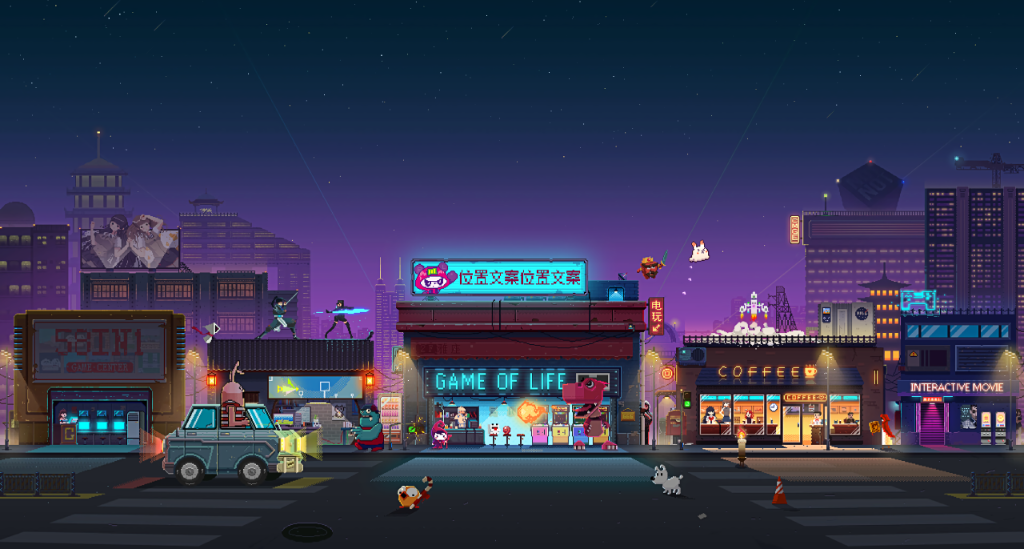
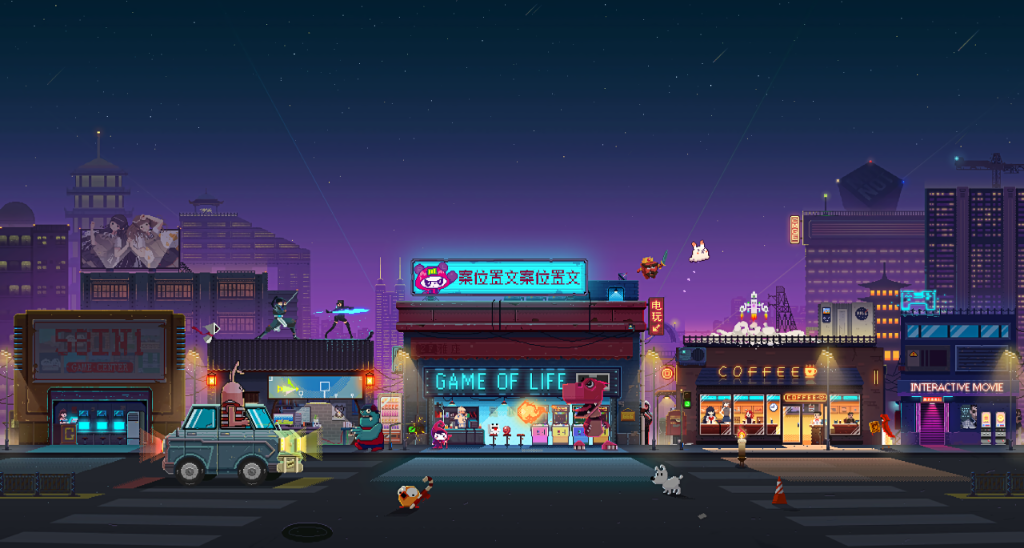
feat(ui): apply user-provided pixel city background with subtle blur and dimming

diff --git a/static/index.html b/static/index.html
@@ -381,11 +381,14 @@
   </style>
 </head>
 <body class="min-h-screen selection:bg-[#00F0FF] selection:text-black flex flex-col relative">
-  <!-- PIXEL NIGHT CITY BACKDROP LAYER (TOP HEADER & STATUS AREA) -->
-  <div class="pointer-events-none fixed top-0 left-0 right-0 h-80 z-0 overflow-hidden select-none">
-    <div class="w-full h-full bg-cover bg-top opacity-20 mix-blend-screen"
-         style="background-image: url('/static/pixel_city_bg.png'); filter: saturate(1.4) contrast(1.15);"></div>
-    <div class="absolute inset-0 bg-gradient-to-b from-transparent via-[#0b0c1a]/70 to-[#0b0c1a]"></div>
+  <!-- PIXEL NIGHT CITY ARCADE FULL-APP BACKDROP (HƠI MỜ & HUYỀN ẢO) -->
+  <div class="pointer-events-none fixed inset-0 z-0 overflow-hidden select-none">
+    <div class="w-full h-full bg-cover bg-center bg-no-repeat transition-transform duration-1000 scale-105"
+         style="background-image: url('/static/pixel_city_bg.png'); 
+                opacity: 0.26; 
+                filter: blur(1.5px) saturate(1.2) contrast(1.1);"></div>
+    <!-- Soft dark gradient overlay for crystal clear contrast -->
+    <div class="absolute inset-0 bg-gradient-to-b from-[#0b0c1a]/70 via-[#0b0c1a]/40 to-[#0b0c1a]/85"></div>
   </div>
 
 
@@ -488,7 +491,7 @@
   </div>
 
   <!-- MAIN CONTAINER -->
-  <main class="flex-1 max-w-7xl w-full mx-auto p-6 space-y-6">
+  <main class="flex-1 max-w-7xl w-full mx-auto p-6 space-y-6 relative z-10">
 
     <!-- HERO SPOTLIGHT BANNER (CYBER-PIXEL ARCADE FRAME WITH CRT SCANLINES) -->
     <div id="heroBanner" onmouseenter="isHeroHovered = true" onmouseleave="isHeroHovered = false" class="relative rounded-[2px] overflow-hidden hero-arcade-frame bg-[#0d0e1f] min-h-[320px] flex items-end p-8 transition-all duration-500">
@@ -894,7 +897,7 @@
   <div id="toastContainer" class="fixed bottom-6 right-6 z-50 space-y-2 pointer-events-none"></div>
 
   <!-- FOOTER (CYBER-PIXEL ARCADE) -->
-  <footer class="mt-auto border-t border-[#00F0FF]/20 py-4 px-6 text-center text-xs text-slate-400 font-pixel tracking-wider bg-[#080914]/85">
+  <footer class="mt-auto border-t border-[#00F0FF]/20 py-4 px-6 text-center text-xs text-slate-400 font-pixel tracking-wider bg-[#080914]/90 relative z-10">
     <span class="text-[#00F0FF]">CỔ NGỮ</span> <span class="text-[#FF2A85]">v2.0.2</span> &bull; <span class="text-slate-400">CYBER-PIXEL NIGHT CITY ARCADE</span> &bull; <span class="text-[#00FF9D]">ONLINE</span>
   </footer>
 
